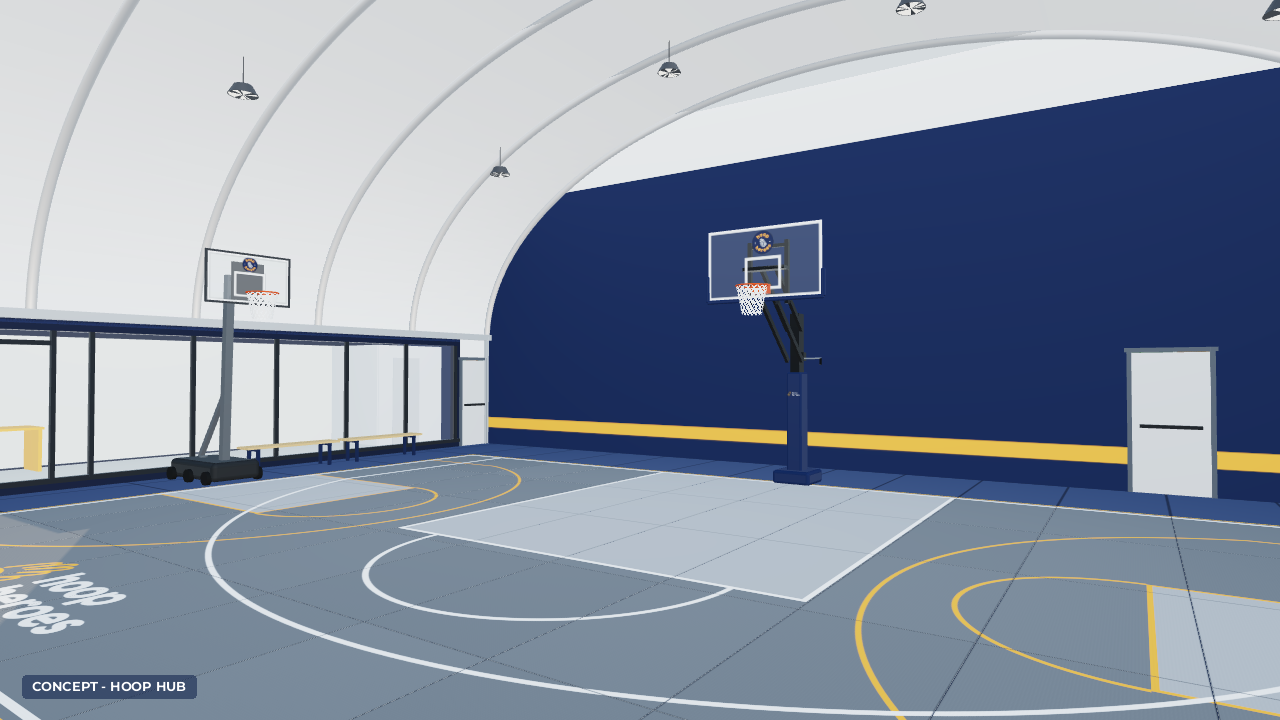
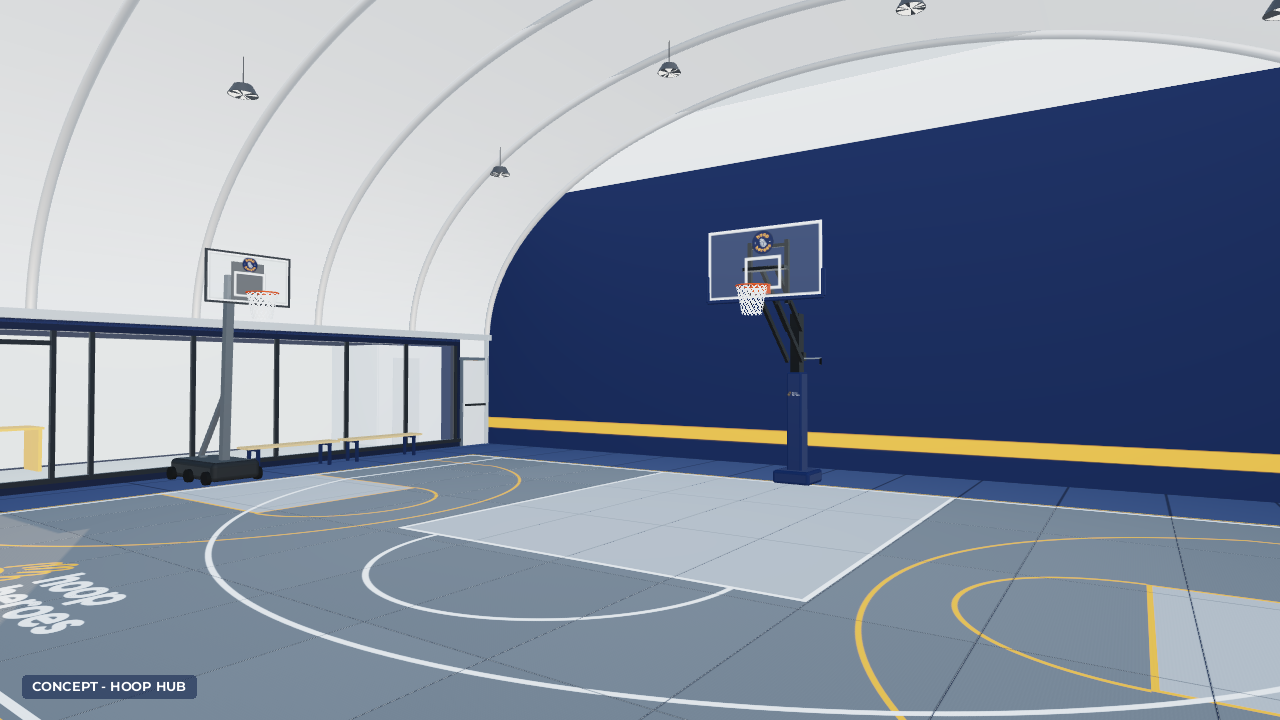
Phase 2: fire exits in the four corner gap panels, none in the end walls
Claude-Session: https://claude.ai/code/session_01UoyugYzmaTfuHsWdpUMhBc

Changed region(s): [[0.875, 0.4583, 0.9688, 0.7028]]

diff --git a/court-viz/phase2/hub.js b/court-viz/phase2/hub.js
@@ -21,8 +21,7 @@ export const HUB = {
   hhStore: { z0: -1.1, z1: 5.0 }, // 20 ft navy, right, Mega Slam end
   schoolStore: { z0: 5.0, z1: 11.1 }, // 20 ft gold, right, entrance end
   roller: { w: 6.0, h: 4.5 },
-  fe1: { x0: 4.5, x1: 5.5, h: 2.1 }, // Mega Slam end wall
-  fe2: { z0: -1.95, z1: -1.1, h: 2.1 }, // left gap panel, Mega Slam end
+  exit: { w: 0.85, h: 2.1 }, // a fire exit in each of the four corner gap panels (Jamie, 21 Oct 2026)
   navyTo: 6.0, // end walls navy to here, white fabric above
   glazedDoor: { z0: 7.0, z1: 8.0 },
   lights: { x: [-6, -2, 2, 6], z: [0.6, 5.75, 10.9] },
@@ -469,29 +468,23 @@ export async function createPhase2(renderer, { logoUrl = 'assets/logo.png', mark
   };
   const { w: rw, h: rh } = HUB.roller;
   const rollerNotch = [-rw / 2, rw / 2, rh];
-  const fe1Notch = [HUB.fe1.x0, HUB.fe1.x1, HUB.fe1.h];
   const tEntranceOut = endWallTexture('entrance-out');
   const tEntranceIn = endWallTexture('entrance-in');
   const tSlamIn = endWallTexture('slam-in');
   const tSlamOut = endWallTexture('slam-out');
   wallFace(HUB.z1 + 0.005, 1, [rollerNotch], tEntranceOut);
   wallFace(HUB.z1 - 0.005, -1, [rollerNotch], tEntranceIn);
-  wallFace(HUB.z0 + 0.005, 1, [fe1Notch], tSlamIn);
-  wallFace(HUB.z0 - 0.005, -1, [fe1Notch], tSlamOut);
+  wallFace(HUB.z0 + 0.005, 1, [], tSlamIn);
+  wallFace(HUB.z0 - 0.005, -1, [], tSlamOut);
   enclosure.add(walls);
 
   const roller = new RollerDoor();
   roller.group.position.z = HUB.z1;
   enclosure.add(roller.group);
-  const fe1 = exitDoor(HUB.fe1.x1 - HUB.fe1.x0, HUB.fe1.h);
-  fe1.position.set((HUB.fe1.x0 + HUB.fe1.x1) / 2, 0, HUB.z0);
-  fe1.rotation.y = Math.PI;
-  enclosure.add(fe1);
 
-  // gap panels: about 0.9 m of white fabric on ballast at each end of each container row; FE2 in the left
-  // one at the Mega Slam end
+  // gap panels: about 0.9 m of white fabric at each end of each container row, each with an
+  // outward-opening fire exit, so the end walls carry only the roller door
   const panelMat = std('#f4f5f6', { roughness: 0.85, side: THREE.DoubleSide });
-  const ballast = std('#8d9094', { roughness: 0.95 });
   const gaps = [
     [-1, HUB.z0, HUB.reception.z0],
     [-1, HUB.reception.z1, HUB.z1],
@@ -500,18 +493,13 @@ export async function createPhase2(renderer, { logoUrl = 'assets/logo.png', mark
   ];
   for (const [s, a, b] of gaps) {
     const x = s * HALF;
-    const fe2 = s < 0 && a === HUB.z0;
-    if (fe2) {
-      const door = exitDoor(HUB.fe2.z1 - HUB.fe2.z0, HUB.fe2.h);
-      door.rotation.y = -Math.PI / 2;
-      door.position.set(x, 0, (HUB.fe2.z0 + HUB.fe2.z1) / 2);
-      enclosure.add(door);
-      enclosure.add(box(0.03, HUB.ch - HUB.fe2.h - 0.06, b - a, panelMat, x, (HUB.ch + HUB.fe2.h + 0.06) / 2, (a + b) / 2));
-    } else {
-      enclosure.add(box(0.03, HUB.ch, b - a, panelMat, x, HUB.ch / 2, (a + b) / 2));
-      enclosure.add(box(0.9, 0.6, b - a - 0.04, ballast, x + s * 0.47, 0.3, (a + b) / 2));
-    }
-    enclosure.add(box(0.12, HUB.ch, 0.12, steel, x, HUB.ch / 2, s < 0 && a === HUB.z0 ? HUB.z0 + 0.06 : a === HUB.z0 ? a + 0.06 : b - 0.06));
+    const { w, h } = HUB.exit;
+    const door = exitDoor(w, h);
+    door.rotation.y = (s * Math.PI) / 2; // local +z points outside
+    door.position.set(x, 0, (a + b) / 2);
+    enclosure.add(door);
+    enclosure.add(box(0.03, HUB.ch - h - 0.06, b - a, panelMat, x, (HUB.ch + h + 0.06) / 2, (a + b) / 2));
+    enclosure.add(box(0.12, HUB.ch, 0.12, steel, x, HUB.ch / 2, a === HUB.z0 ? a + 0.06 : b - 0.06));
   }
 
   // parents' benches along the reception glazing
@@ -558,4 +546,6 @@ export const SHOTS = {
   1: { label: 'Outside', pos: [12.5, 3.6, 28.5], target: [0.4, 3.0, 5.5], fov: 42, state: { roller: 1 } },
   2: { label: 'Inside', pos: [4.6, 1.8, 11.3], target: [-2.2, 2.0, 1.2], fov: 52, state: { roller: 1 } },
   3: { label: 'Top-down', ortho: { cx: 0, cz: 5, height: 16.6 }, state: { roller: 1, cutaway: true } },
+  // detail for signing off the corner fire exits
+  e1: { label: 'Corner exit', pos: [14.2, 1.9, 16.5], target: [9.2, 1.3, 11.2], fov: 45, state: { roller: 0 } },
 };
